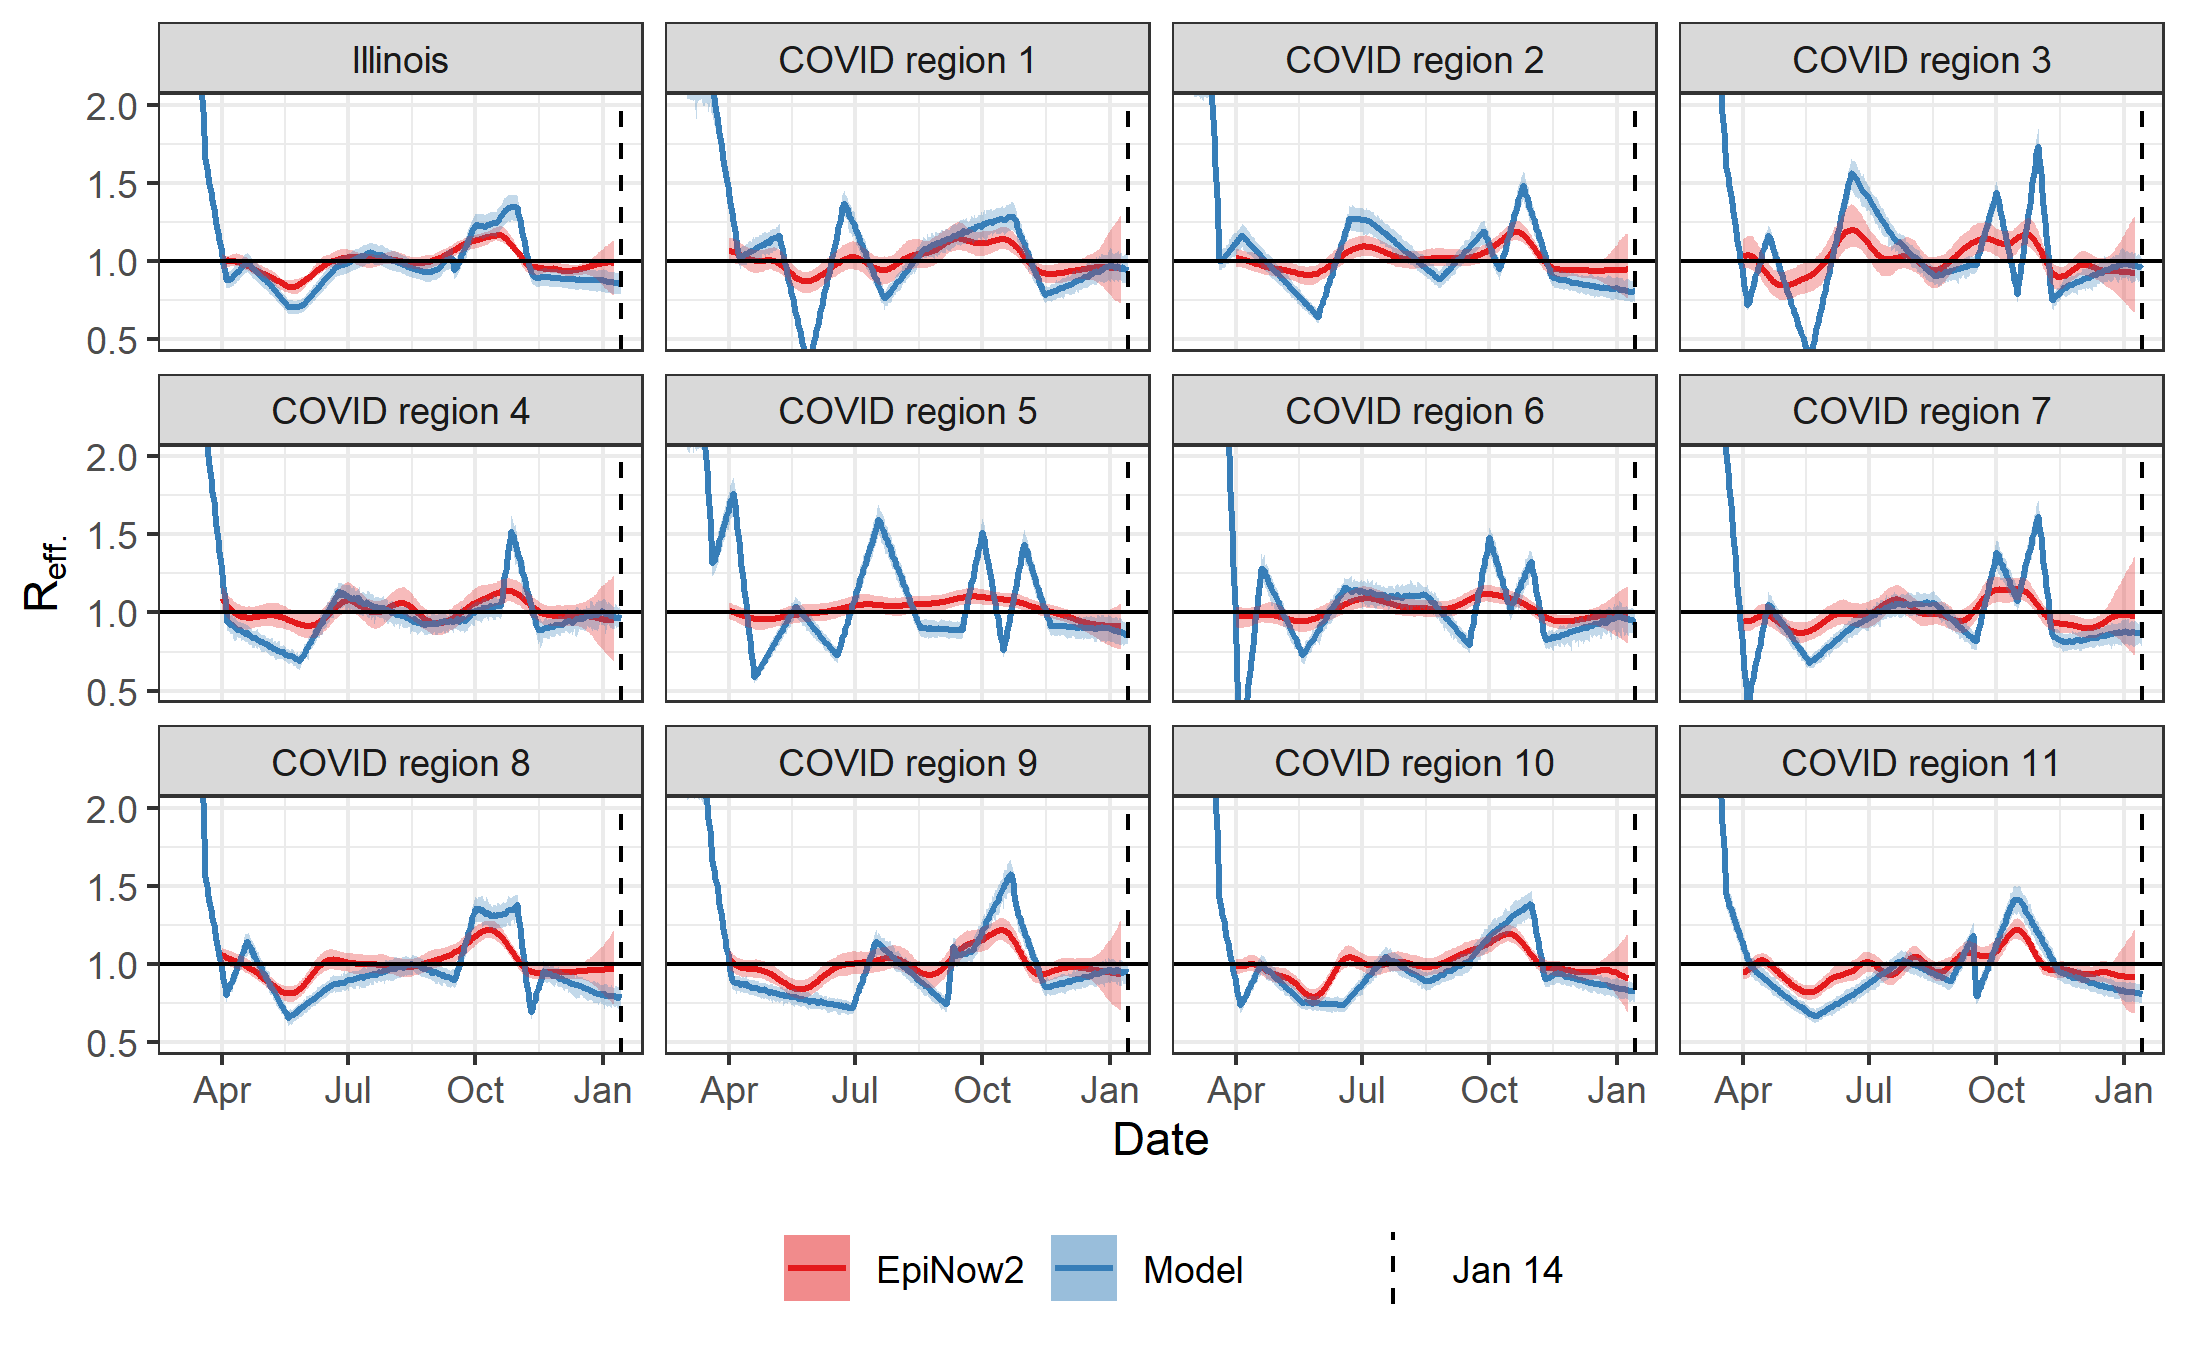
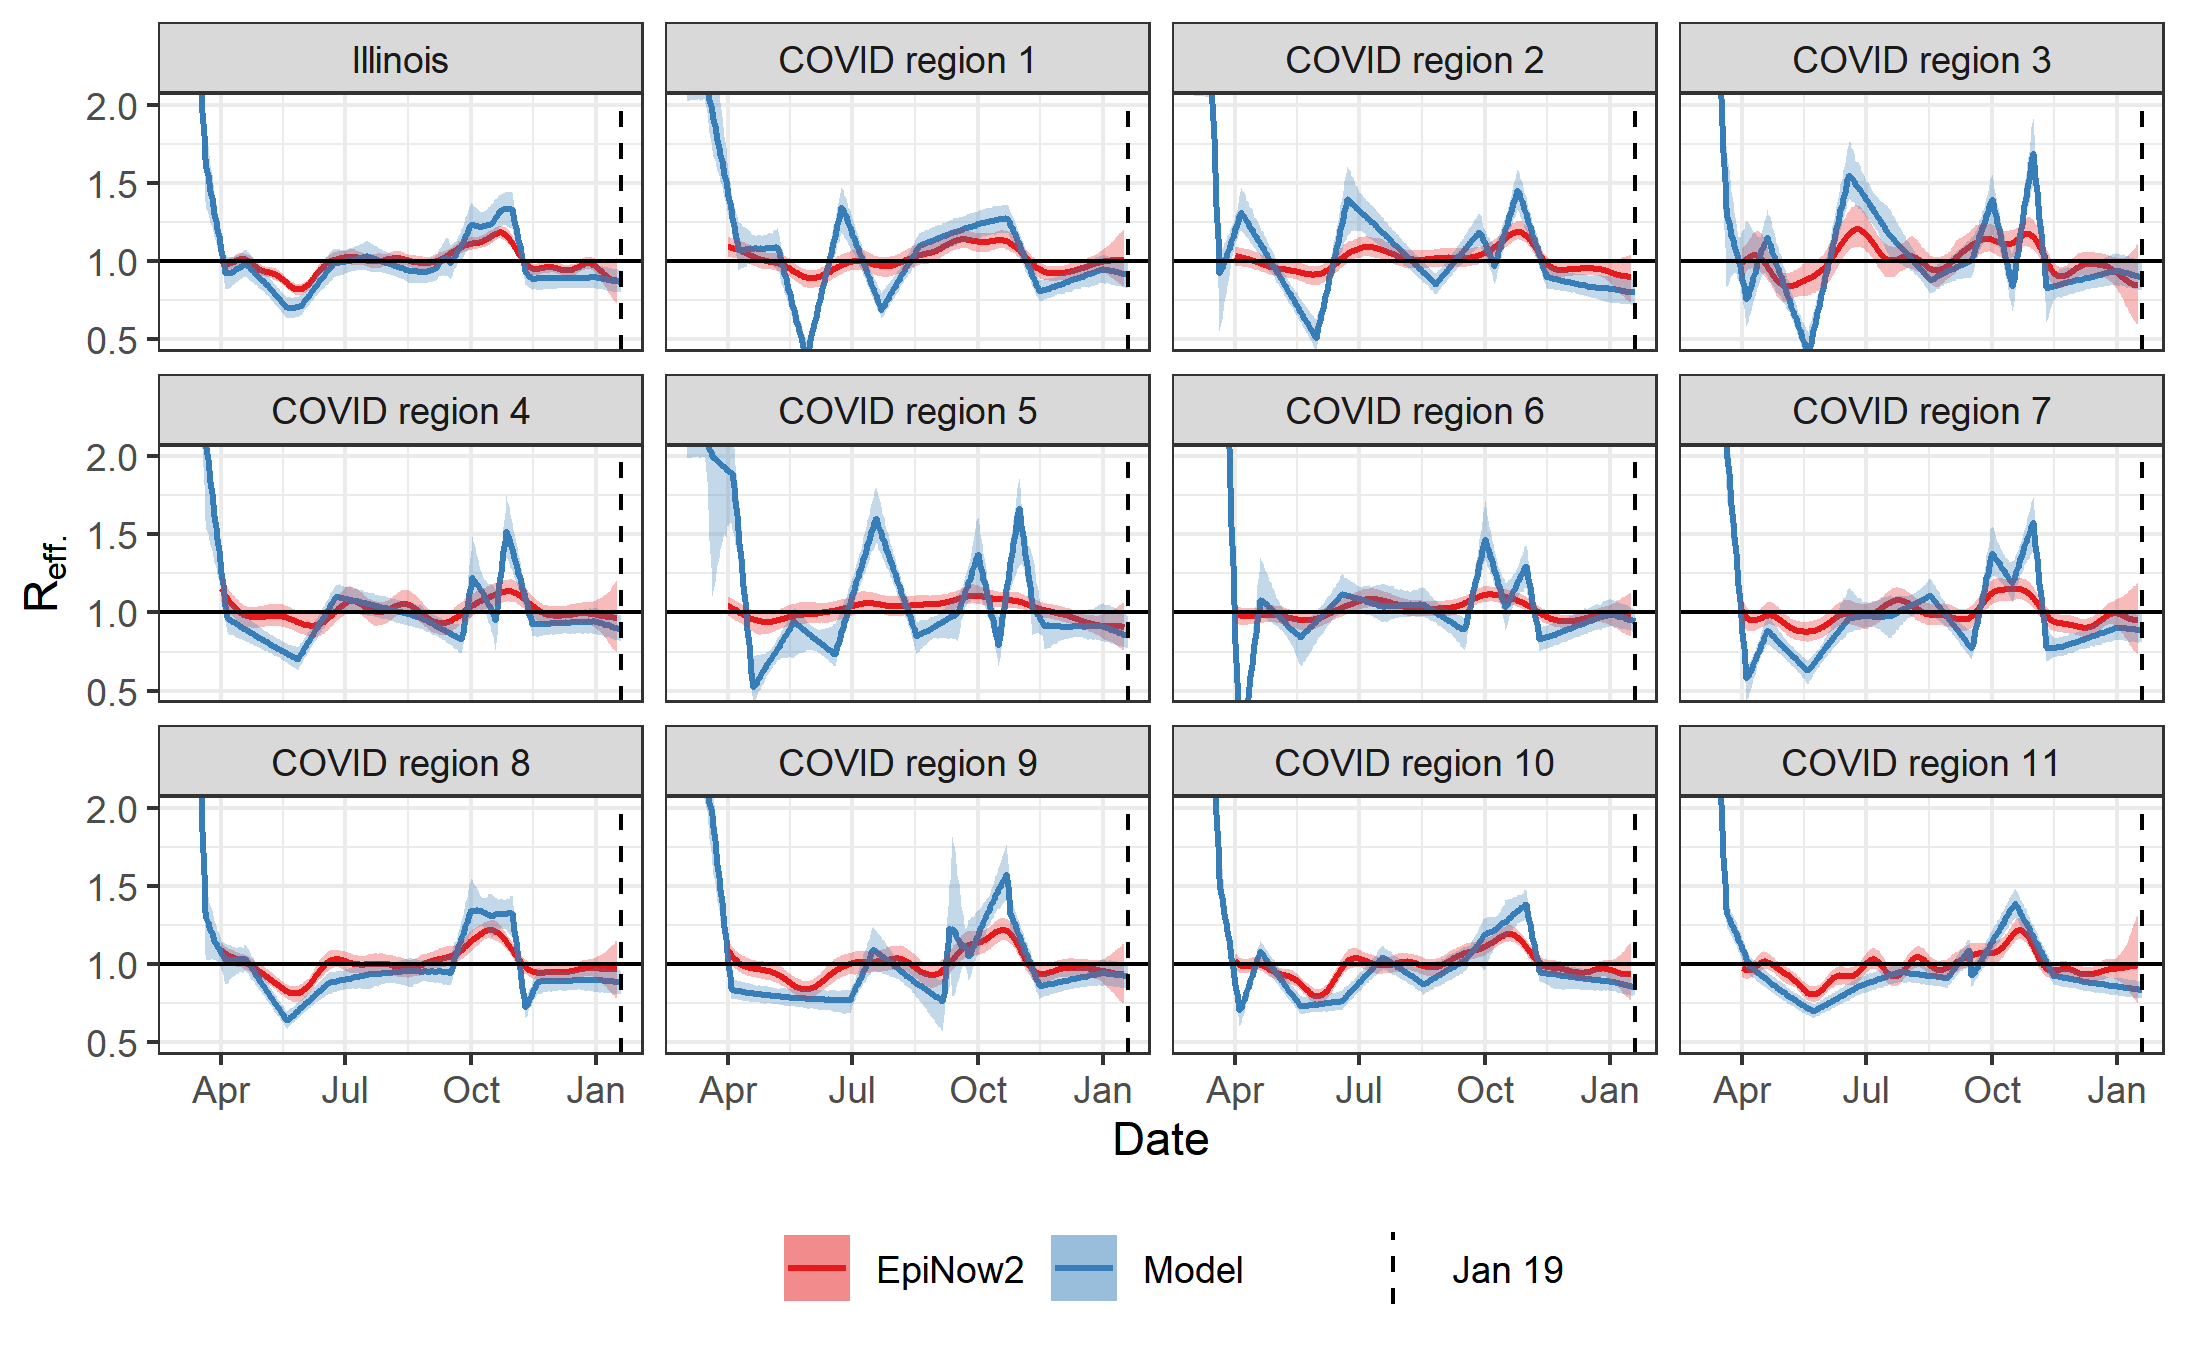
Updated Rt from week of 2021-01-18

diff --git a/Rt/README.md b/Rt/README.md
@@ -10,3 +10,8 @@ We estimated R<sub>eff.</sub> using two different methods. First, we used the [E
 
 Figure 1: Comparison of R<sub>eff.</sub> estimated from CLI with EpiNow2 (red) and R<sub>eff.</sub> inferred by our dynamical model (blue). The dashed line shows the latest date in the data used to calibrate the dynamical model. At the time of estimation, CLI data were available through January 9, 2021. 
 ![Figure 2](./plots/rt_comparison.png)
+
+## Changelog
+
+### 2021-01-26
+* Changed delay distribution to use data from [Faes et al.](https://www.ncbi.nlm.nih.gov/pmc/articles/PMC7589278/).
